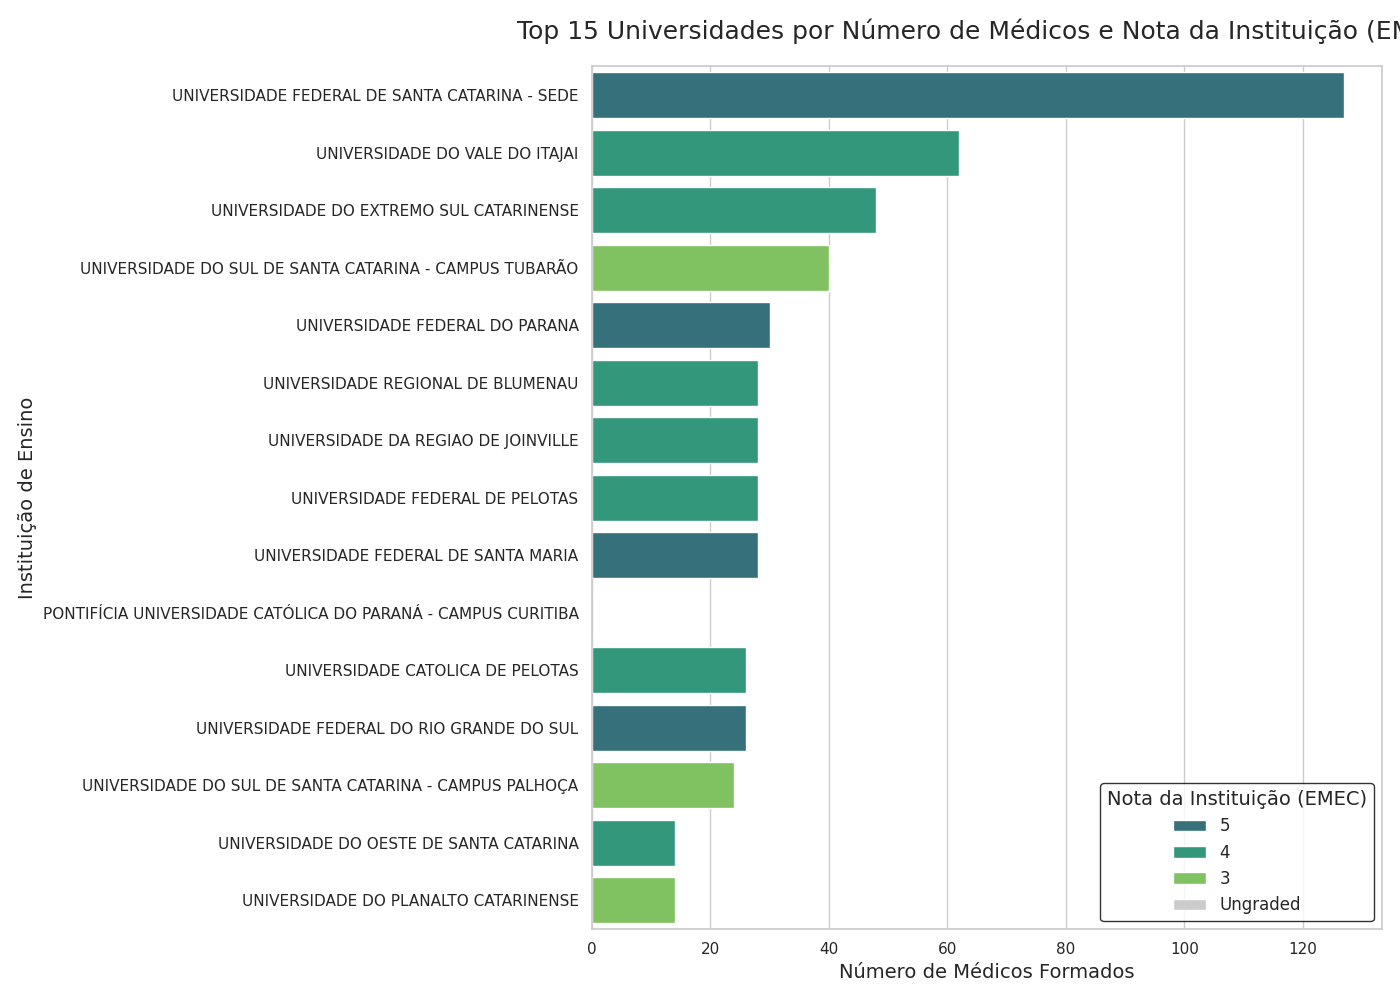
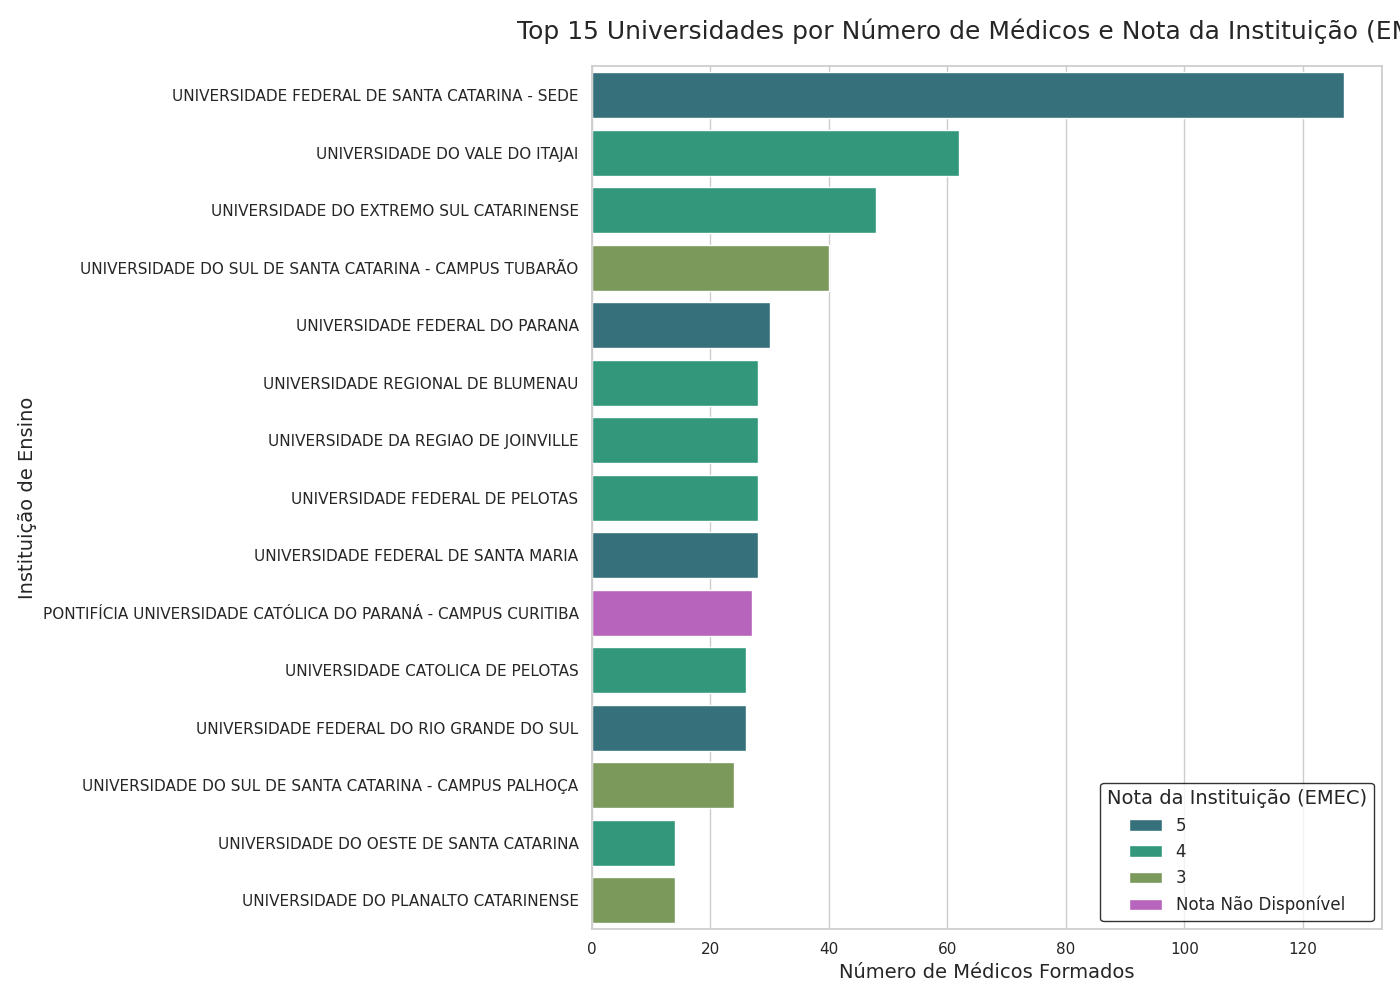
Fix missing bar in universidades por nota plot

diff --git a/03-plotting/01_plotting.py b/03-plotting/01_plotting.py
@@ -220,7 +220,7 @@ sns.set_style("whitegrid")
 
 # Use the new 'legenda_nota' column for the hue
 # We can also define a custom color palette
-custom_palette = {'5': '#2a7886', '4': '#22a884', '3': '#7ad151', 'Ungraded': '#cccccc'}
+custom_palette = {'5': '#2a7886', '4': '#22a884', '3': '#7aa351', 'Nota Não Disponível': '#c455cc'}
 
 barplot = sns.barplot(
     x='numero_de_medicos',
@@ -228,7 +228,7 @@ barplot = sns.barplot(
     data=plot_df,
     hue='legenda_nota',
     palette=custom_palette,
-    hue_order=['5', '4', '3', 'Ungraded'], # Control legend order
+    hue_order=['5', '4', '3', 'Nota Não Disponível'], # Control legend order
     dodge=False
 )
 
